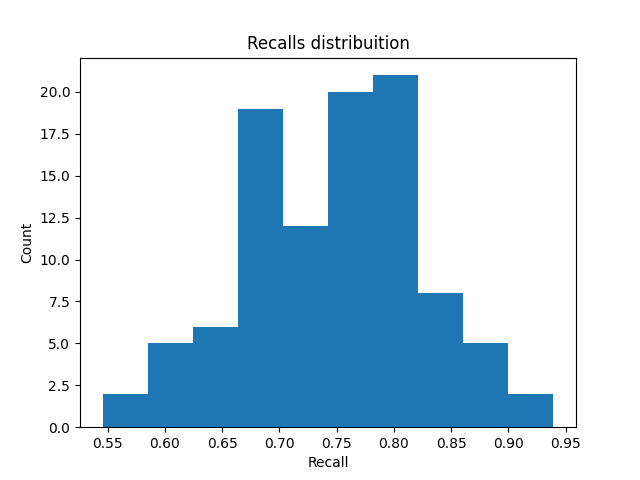
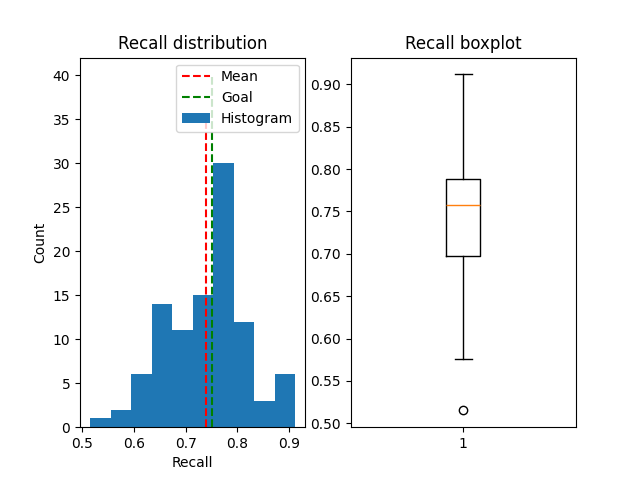
add boxplot to evaluate

diff --git a/src/evaluate.py b/src/evaluate.py
@@ -9,6 +9,7 @@ from xgboost import XGBClassifier
 import os
 import json
 import matplotlib.pyplot as plt
+import numpy as np
 
 def evaluate():
     random_state = 100
@@ -32,11 +33,16 @@ def evaluate():
     many_evaluator = HdpManyModelEvaluator(models, pipeline)
     for metrics, name in zip(many_evaluator.kfold_cross_val(X_train, y_train, threshold=0.5), names):
         metrics["name"] = name
-        plt.figure()
-        plt.hist(metrics["recalls"])
-        plt.title("Recalls distribuition")
-        plt.ylabel("Count")
-        plt.xlabel("Recall")
+        fig, axs = plt.subplots(1, 2)
+        axs[0].hist(metrics["recalls"])
+        axs[0].vlines(metrics["mean_recall"], 0, max(axs[0].get_yticks()), linestyles="--", color="red")
+        axs[0].set_title("Recall distribution")
+        axs[0].set_ylabel("Count")
+        axs[0].set_xlabel("Recall")
+        axs[0].vlines(0.75, 0, max(axs[0].get_yticks()), linestyles="--", color="green")
+        axs[0].legend(["Mean", "Goal", "Histogram"])
+        axs[1].boxplot(metrics["recalls"])
+        axs[1].set_title("Recall boxplot")
         metrics.pop("recalls")
         folder = f"../evaluation_metrics/{name}"
         if not os.path.exists(folder):
